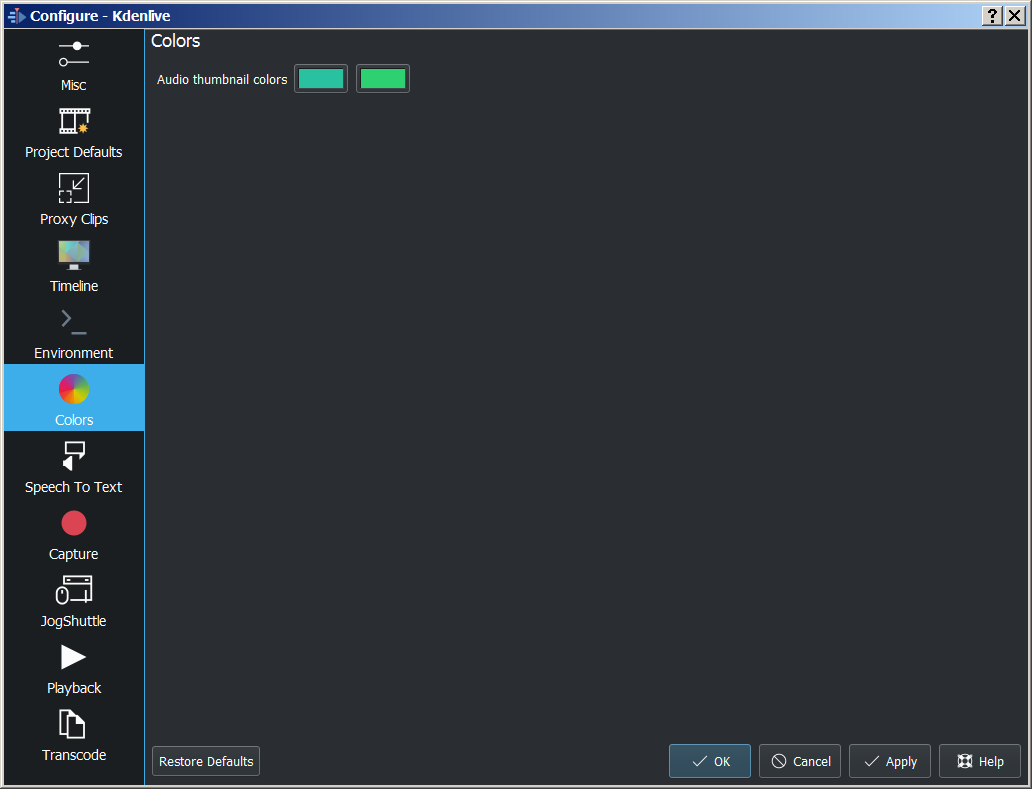
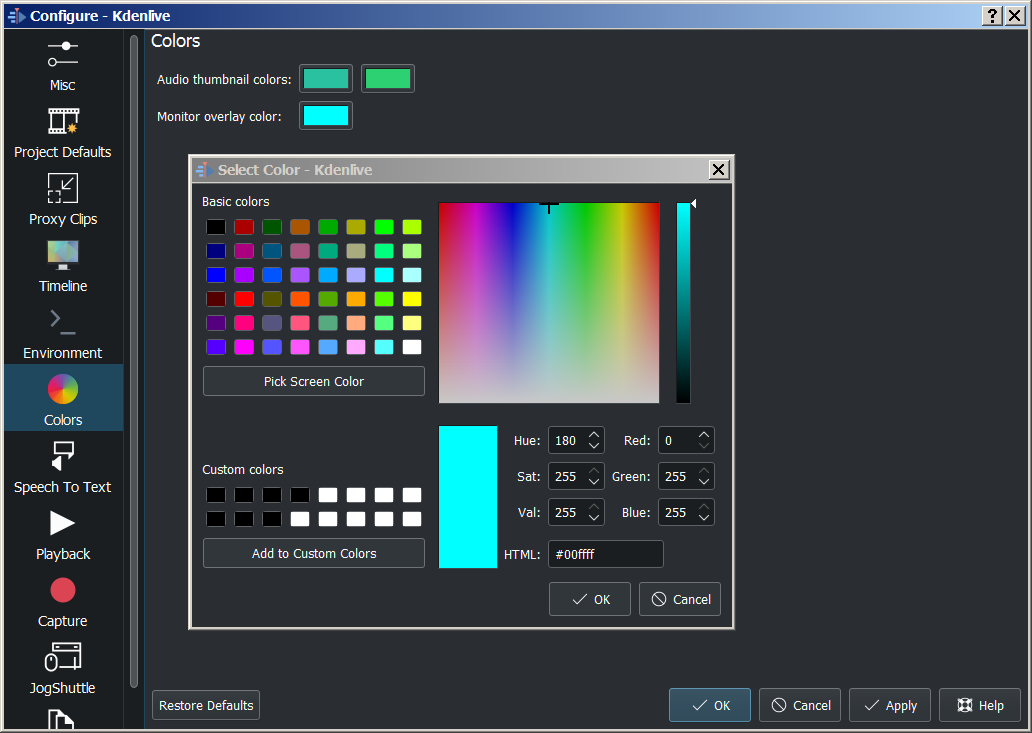
Update Monitor Overlay Guides now color configurable

Changed region(s): [[0.0, 0.0, 1.0, 1.0], [0.186, 0.7804, 0.7132, 0.8704], [0.2481, 0.7503, 0.3721, 0.7804]]

diff --git a/user_interface/monitors.rst b/user_interface/monitors.rst
@@ -1,6 +1,6 @@
 .. meta::
    :description: Clip monitor and project monitor in Kdenlive video editor
-   :keywords: KDE, Kdenlive, clip, project, monitor, documentation, user manual, video editor, open source, free, learn, easy
+   :keywords: KDE, Kdenlive, clip, project, monitor, overlay, resizing, zoombar, preview, toolbar, documentation, user manual, video editor, open source, free, learn, easy
 
 .. metadata-placeholder
 
@@ -58,6 +58,10 @@ Monitor toolbar
    :alt: Monitors
 
 Support multiple guide overlays. Move with the mouse to the upper-right corner of the monitor to access the toolbar. 
+
+.. versionadded:: 22.08.0
+
+The color of the guide overlays can be changed. See :ref:`monitor_toolbars`    
 
 .. _preview_resolution:
 

diff --git a/user_interface/menu/settings_menu/configure_kdenlive.rst b/user_interface/menu/settings_menu/configure_kdenlive.rst
@@ -211,7 +211,11 @@ Colors
    :width: 500px
    :alt: Kdenlive_Configure_colors
 
-This sets the color of the audio wave thumbnail.
+:guilabel:`Audio thumbnail colors` Click on the color bar and change the color of the audio wave thumbnail.
+
+.. versionadded:: 22.08.0
+
+:guilabel:`Monitor overlay color` Click on the color bar and change the color of the monitor overlay lines. See :ref:`monitor_toolbars`
 
 .. _configure_speech_to_text:
 
